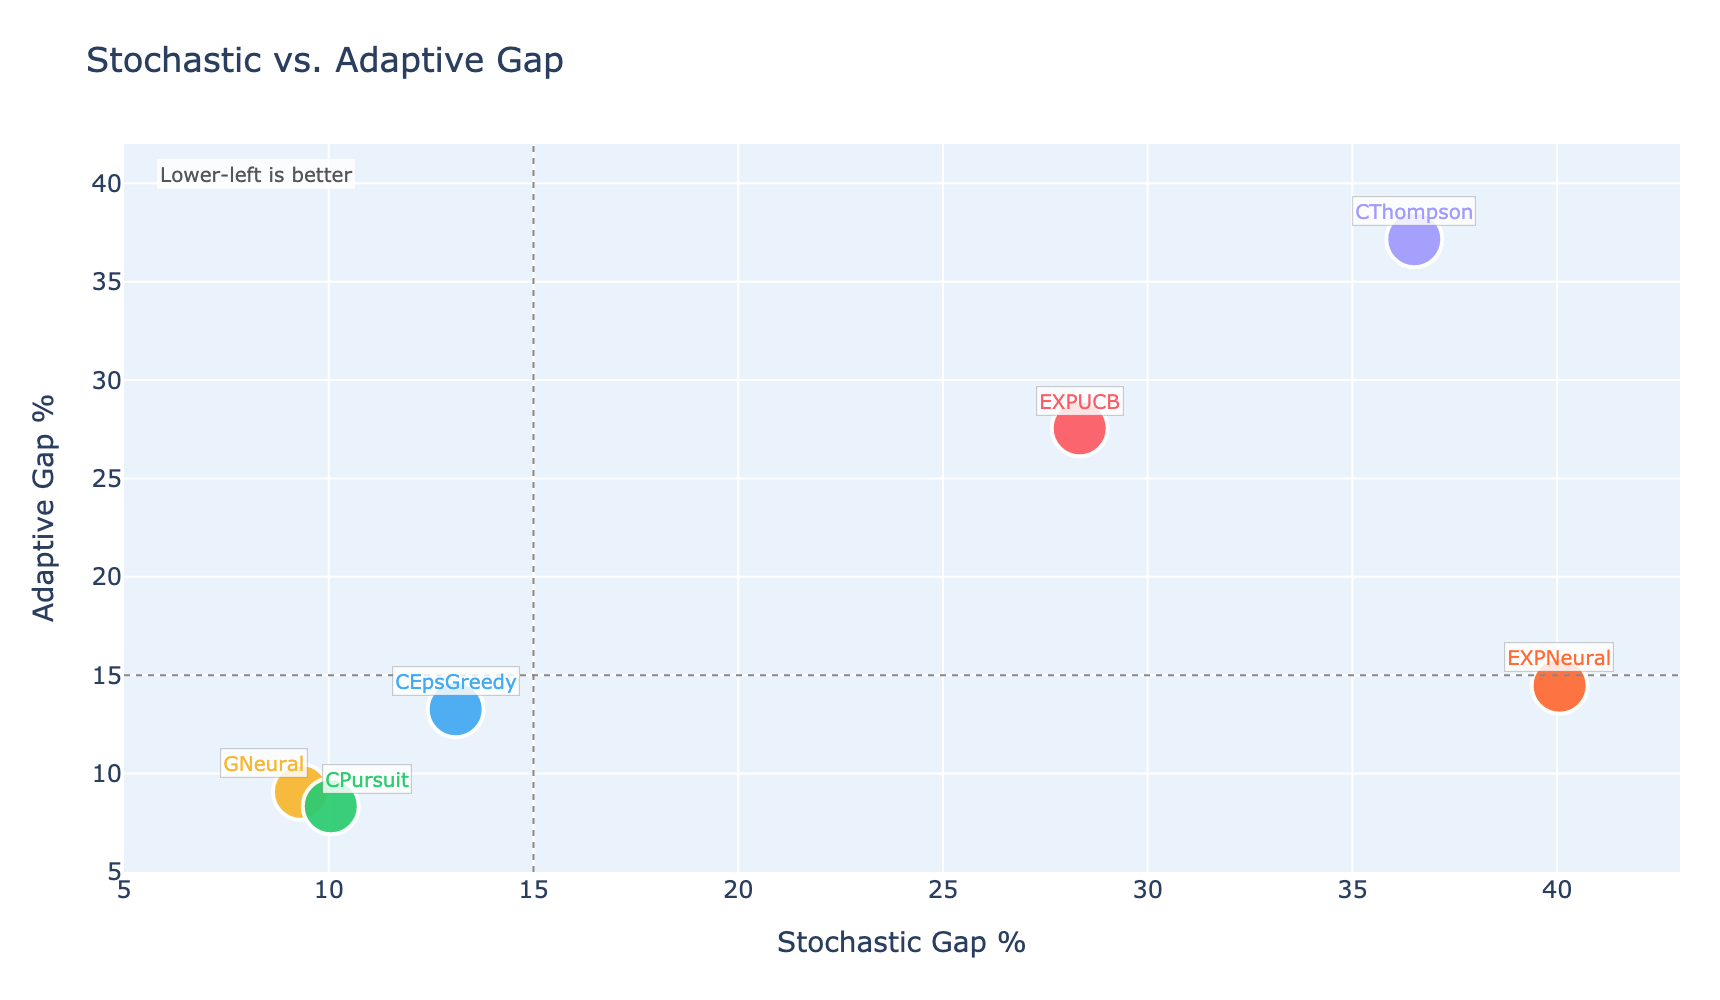
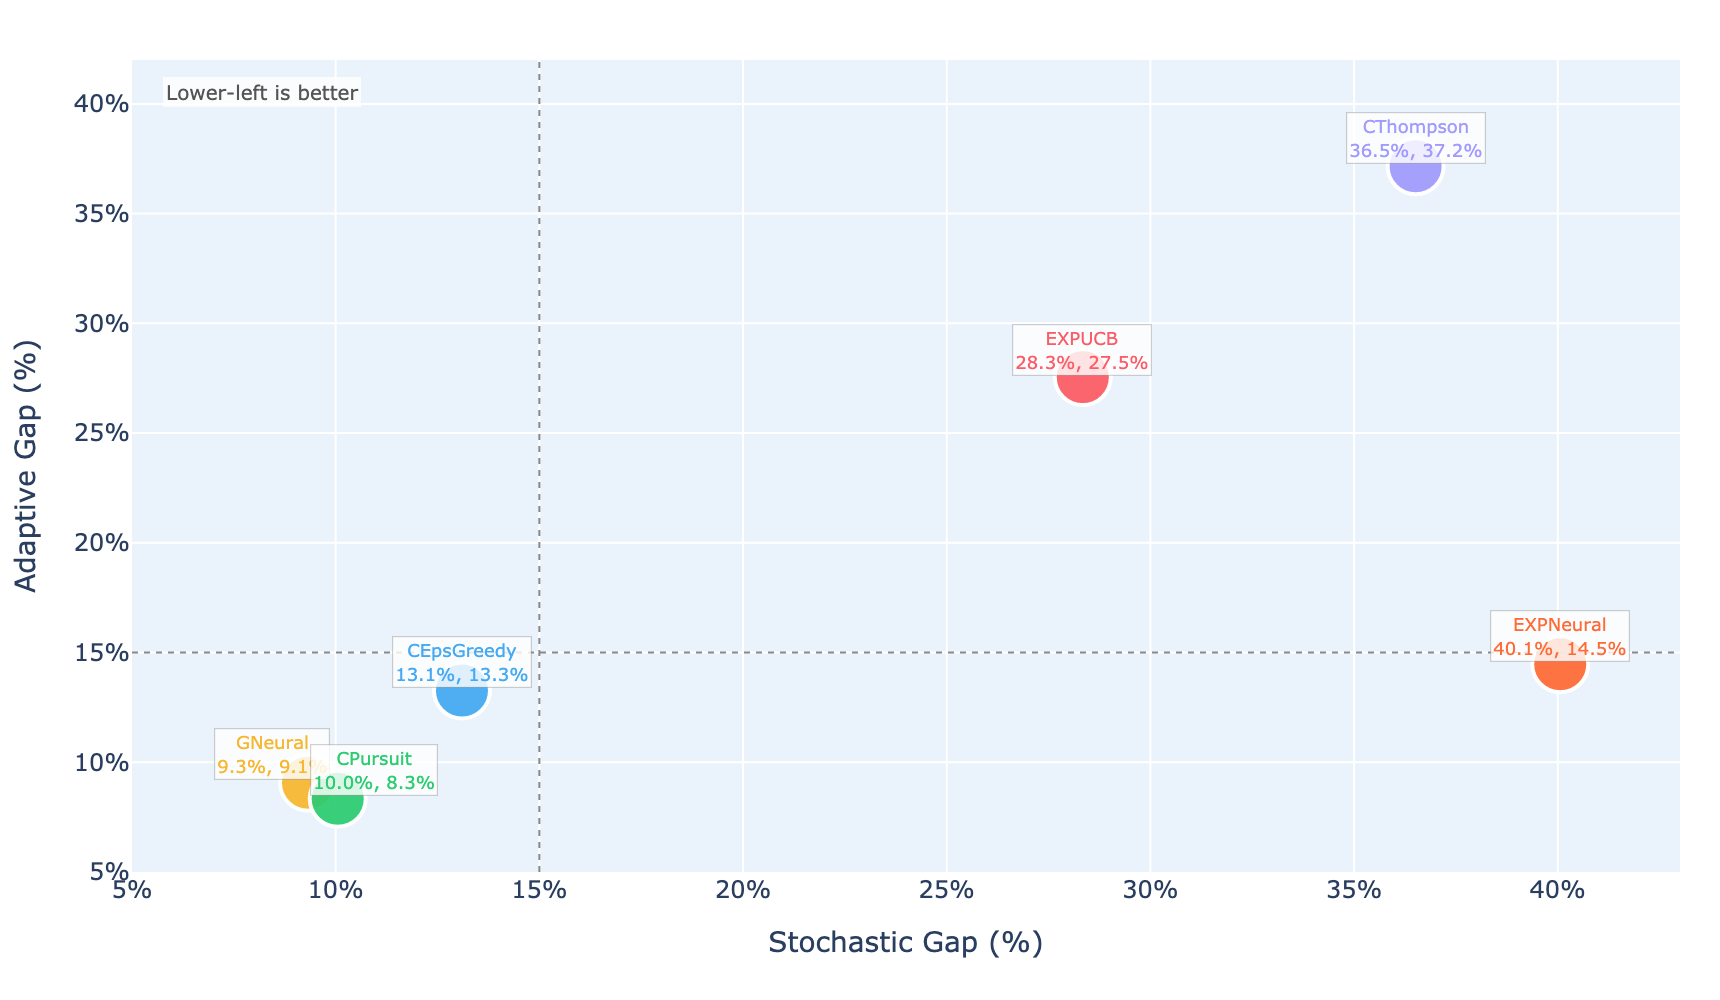
Finalize appendix Fig 10 percentage labels

diff --git a/figures/icnp_graphs/build_G10_G14.py b/figures/icnp_graphs/build_G10_G14.py
@@ -199,6 +199,9 @@ for model in top4:
         y=all_models[model],
         name=model,
         marker_color=C[model],
+        text=[f"{value:.1f}%" for value in all_models[model]],
+        textposition="outside",
+        cliponaxis=False,
     ))
 fig12a.add_hline(y=85, line_dash="dash", line_color="#8EC9F4", line_width=1.4)
 fig12a.add_annotation(
@@ -212,17 +215,18 @@ fig12a.add_annotation(
     bgcolor="rgba(255,255,255,0.78)",
 )
 fig12a.update_layout(
-    title=dict(text="Efficiency by Scenario"),
     xaxis_title="Scenario",
-    yaxis_title="Eff %",
-    yaxis_range=[50, 100],
+    yaxis_title="Efficiency (%)",
+    yaxis_range=[50, 103],
     legend=dict(orientation="h", x=0.02, y=1.02, xanchor="left", yanchor="bottom", font=dict(size=9)),
-    margin=dict(l=58, r=18, t=72, b=86),
+    margin=dict(l=58, r=18, t=30, b=86),
     plot_bgcolor="#EAF2FB",
     paper_bgcolor="white",
+    uniformtext_minsize=9,
+    uniformtext_mode="hide",
 )
 fig12a.update_xaxes(tickangle=0, tickfont=dict(size=10))
-fig12a.update_yaxes(gridcolor="white")
+fig12a.update_yaxes(gridcolor="white", ticksuffix="%")
 save_paper_panel(fig12a, "ICNP-NOTEBOOK-053_g12_panel_a_efficiency_by_scenario.png")
 
 fig12b = go.Figure()
@@ -241,11 +245,11 @@ for model, x_val, y_val in zip(mnames, x_s, y_a):
     fig12b.add_annotation(
         x=x_val,
         y=y_val,
-        text=short_model_labels[model],
+        text=f"{short_model_labels[model]}<br>{x_val:.1f}%, {y_val:.1f}%",
         showarrow=False,
         xshift=xshift,
         yshift=yshift,
-        font=dict(size=10, color=C[model]),
+        font=dict(size=9, color=C[model]),
         bgcolor="rgba(255,255,255,0.82)",
         bordercolor="rgba(0,0,0,0.18)",
         borderwidth=0.6,
@@ -263,17 +267,16 @@ fig12b.add_annotation(
     bgcolor="rgba(255,255,255,0.78)",
 )
 fig12b.update_layout(
-    title=dict(text="Stochastic vs. Adaptive Gap"),
-    xaxis_title="Stochastic Gap %",
-    yaxis_title="Adaptive Gap %",
+    xaxis_title="Stochastic Gap (%)",
+    yaxis_title="Adaptive Gap (%)",
     xaxis_range=[5, 43],
     yaxis_range=[5, 42],
-    margin=dict(l=62, r=20, t=72, b=64),
+    margin=dict(l=62, r=20, t=30, b=64),
     plot_bgcolor="#EAF2FB",
     paper_bgcolor="white",
 )
-fig12b.update_xaxes(gridcolor="white")
-fig12b.update_yaxes(gridcolor="white")
+fig12b.update_xaxes(gridcolor="white", ticksuffix="%")
+fig12b.update_yaxes(gridcolor="white", ticksuffix="%")
 save_paper_panel(fig12b, "ICNP-NOTEBOOK-054_g12_panel_b_stochastic_vs_adaptive_gap.png")
 
 # G13: Capacity Paradox

diff --git a/ICNP_VENUE_PREP/APPENDIX_DIAGNOSTIC_FIGURES.tex b/ICNP_VENUE_PREP/APPENDIX_DIAGNOSTIC_FIGURES.tex
@@ -41,7 +41,7 @@ regimes before replay-capacity tuning is even applied.
 \label{fig:appendix_g12_efficiency_by_scenario}]{%
   \begin{minipage}{0.49\textwidth}
   \centering
-  \textbf{Efficiency by Scenario}\\[-0.20em]
+  \textbf{Efficiency by Scenario}\\[0.18em]
   \includegraphics[width=\linewidth,height=1.98in]{figures/icnp/ICNP-NOTEBOOK-053_g12_panel_a_efficiency_by_scenario.png}
   \end{minipage}}
 \hfill
@@ -52,7 +52,7 @@ in one regime and fail in another.
 \label{fig:appendix_g12_stochastic_vs_adaptive_gap}]{%
   \begin{minipage}{0.49\textwidth}
   \centering
-  \textbf{Stochastic vs. Adaptive Gap}\\[-0.20em]
+  \textbf{Stochastic vs. Adaptive Gap}\\[0.18em]
   \includegraphics[width=\linewidth,height=1.98in]{figures/icnp/ICNP-NOTEBOOK-054_g12_panel_b_stochastic_vs_adaptive_gap.png}
   \end{minipage}}
 

diff --git a/ICNP_VENUE_PREP/ACTIVE_FEEDBACK_RESOLUTION_LOG.md b/ICNP_VENUE_PREP/ACTIVE_FEEDBACK_RESOLUTION_LOG.md
@@ -35,6 +35,13 @@ This log records feedback-resolution batches applied to the active ICNP venue dr
 - **Change:** Regenerated only the active Figure 10(c)--(d) appendix panels from the G12 source script. Panel (c) now spells out `Baseline`, `Markov`, `Stochastic`, `Adaptive`, and `Online Adaptive`; panel (d) uses larger markers and direct model labels above the points.
 - **Validation:** Full LaTeX compile passed; PDF is 16 pages. Appendix page 13 was rendered and inspected to confirm the scenario labels and point labels are visible.
 
+### Follow-up: Figure 10(c)--(d) percentage labels and duplicate-title cleanup
+
+- **Owning files changed:** `ICNP_VENUE_PREP/APPENDIX_DIAGNOSTIC_FIGURES.tex`, `figures/icnp_graphs/build_G10_G14.py`, `figures/icnp/ICNP-NOTEBOOK-053_g12_panel_a_efficiency_by_scenario.png`, `figures/icnp/ICNP-NOTEBOOK-054_g12_panel_b_stochastic_vs_adaptive_gap.png`
+- **Reason for follow-up:** The active appendix Figure 10(c)--(d) panels still carried an internal plot title directly under the LaTeX panel title, and the visible values were not consistently marked as percentages.
+- **Change:** Removed the internal Plotly titles from the two active panels, added positive spacing between the LaTeX panel title and the image, added percentage labels to the Figure 10(c) bars, and added percentage coordinates to the Figure 10(d) direct point labels.
+- **Validation:** Full LaTeX compile passed; PDF is 16 pages. Appendix page 13 was rendered and inspected to confirm the duplicate titles are gone and the percentage values remain readable.
+
 ## Batch: May 23 Figure 11 restyle
 
 - **Owning files changed:** `figures/icnp-exported-assets/build_G8_G9.py`, `figures/icnp/ICNP-CODE-053_fig6_context_capacity.png`, `figures/icnp/icnp_validation_image_manifest.csv`, `ICNP_VENUE_PREP/BUILD_VALIDATION_LOG.md`
